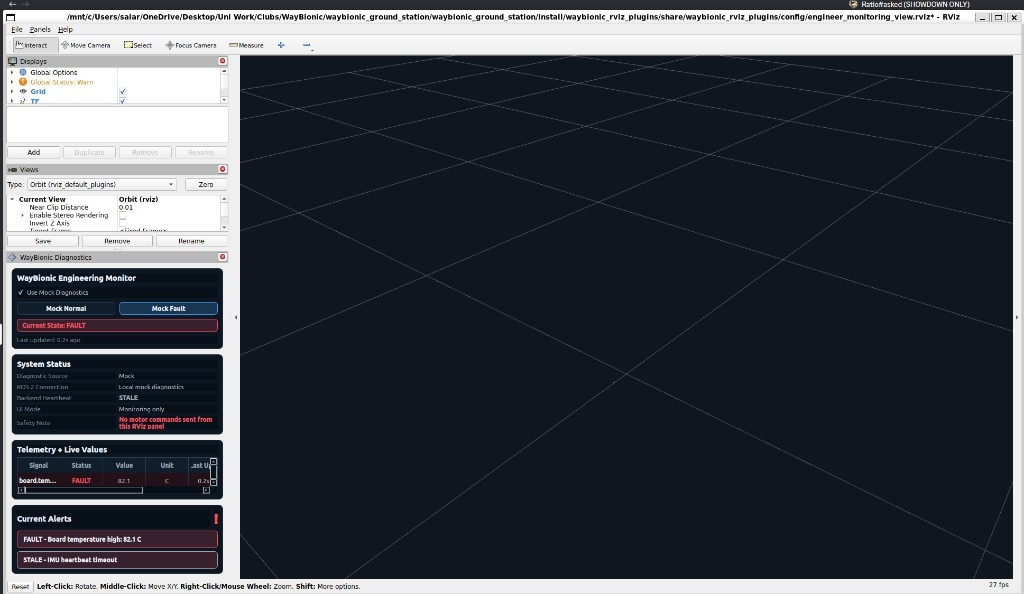
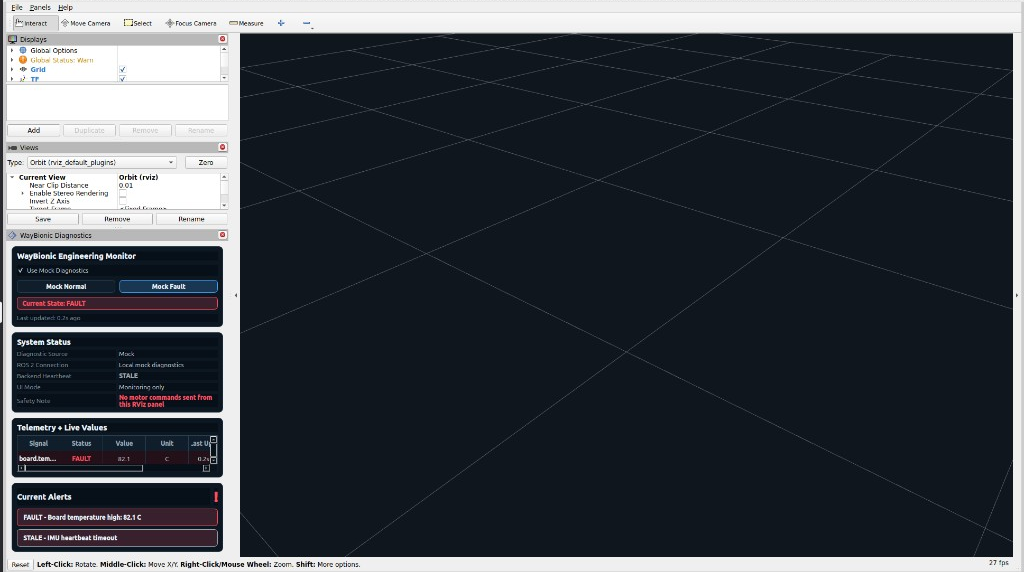
Expand evidence-backed portfolio content

Changed region(s): [[0.0, 0.208, 0.3438, 1.0], [0.0, 0.0, 1.0, 0.1783], [0.4062, 0.4458, 0.4375, 0.4755]]

diff --git a/src/styles/global.css b/src/styles/global.css
@@ -2184,6 +2184,49 @@ body::before {
   letter-spacing: 0.08em;
 }
 
+.project-case-study {
+  margin-top: 0.9rem;
+  border-top: 1px solid #c2bfb3;
+  border-bottom: 1px solid #c2bfb3;
+}
+
+.project-case-study summary {
+  padding: 0.7rem 0;
+  color: #2f6f86;
+  font: 700 0.62rem/1.4 var(--mono);
+  letter-spacing: 0.08em;
+  cursor: pointer;
+}
+
+.project-case-study summary:focus-visible {
+  outline: 2px solid #2f6f86;
+  outline-offset: 3px;
+}
+
+.project-case-study dl {
+  display: grid;
+  gap: 0.8rem;
+  margin: 0 0 0.9rem;
+}
+
+.project-case-study dl div {
+  display: grid;
+  grid-template-columns: minmax(5.5rem, 0.32fr) minmax(0, 1fr);
+  gap: 0.6rem;
+}
+
+.project-case-study dt {
+  color: #2f6f86;
+  font: 700 0.55rem/1.4 var(--mono);
+  letter-spacing: 0.06em;
+}
+
+.project-case-study dd {
+  margin: 0;
+  color: #596272;
+  font: 0.82rem/1.45 Georgia, serif;
+}
+
 .file-card a,
 .window-actions a,
 .resume-download {
@@ -3078,6 +3121,22 @@ body::before {
   background: transparent;
   font: inherit;
   outline: none;
+}
+
+.terminal-screen form button {
+  flex: 0 0 auto;
+  min-block-size: 3rem;
+  padding-inline: 0.75rem;
+  border: 1px solid #6f9160;
+  color: #bdd9ad;
+  background: #263634;
+  font: inherit;
+  cursor: pointer;
+}
+
+.terminal-screen form button:focus-visible {
+  outline: 2px solid #d5efbc;
+  outline-offset: 2px;
 }
 
 .vfs-form input {
@@ -4235,11 +4294,23 @@ body { background: #b8eaf7; }
   animation: app-reveal 420ms cubic-bezier(0.22, 1, 0.36, 1) both;
 }
 
-.os-window:not([hidden]) .window-content > *:nth-child(2) { animation-delay: 55ms; }
-.os-window:not([hidden]) .window-content > *:nth-child(3) { animation-delay: 100ms; }
-.os-window:not([hidden]) .window-content > *:nth-child(4) { animation-delay: 145ms; }
-.os-window:not([hidden]) .window-content > *:nth-child(5) { animation-delay: 190ms; }
-.os-window:not([hidden]) .window-content > *:nth-child(6) { animation-delay: 235ms; }
+@supports (animation-delay: calc(sibling-index() * 0.1s)) {
+  .os-window:not([hidden]) .window-content > * {
+    animation-delay: calc(sibling-index() * 45ms - 35ms);
+  }
+
+  .os-window:not([hidden]) .window-content > *:first-child {
+    animation-delay: 0ms;
+  }
+}
+
+@supports not (animation-delay: calc(sibling-index() * 0.1s)) {
+  .os-window:not([hidden]) .window-content > *:nth-child(2) { animation-delay: 55ms; }
+  .os-window:not([hidden]) .window-content > *:nth-child(3) { animation-delay: 100ms; }
+  .os-window:not([hidden]) .window-content > *:nth-child(4) { animation-delay: 145ms; }
+  .os-window:not([hidden]) .window-content > *:nth-child(5) { animation-delay: 190ms; }
+  .os-window:not([hidden]) .window-content > *:nth-child(6) { animation-delay: 235ms; }
+}
 
 .file-card,
 .signal-card,

diff --git a/src/content.config.ts b/src/content.config.ts
@@ -7,7 +7,7 @@ const projects = defineCollection({
   schema: z.object({
     order: z.number().int().positive(),
     title: z.string(),
-    status: z.enum(['ACTIVE', 'IN PROGRESS', 'SHIPPED']),
+    status: z.enum(['ACTIVE', 'IN PROGRESS', 'PROTOTYPE', 'SHIPPED']),
     stack: z.string(),
     summary: z.string(),
     contribution: z.string().optional(),

diff --git a/docs/08-DECISIONS-AND-SESSION-LOG.md b/docs/08-DECISIONS-AND-SESSION-LOG.md
@@ -1,0 +1,50 @@
+# Decisions and Session Log
+
+## 2026-11-18 — Discovery and first corrections
+
+- **Repository:** `main` at `4371e59`; changes remain local and unpushed.
+- **Scope searched:** the current portfolio checkout and bounded name searches in the standard `~/projects`, `~/dev`, and `~/code` roots. No related project repository paths were returned; no broader folders were scanned.
+- **Phase 0 findings:**
+  - The build generates `/` and `/404.html`; there is no `/explore/` route. The README's Aero Explorer walkthrough was stale, and a local request to `/explore/` returned 404.
+  - Project-card links ignored `linkLabel`, so the HVAC Express live-site link was presented as `OPEN SOURCE`.
+  - WayBionic's local UI includes a scripted stale/future-state sample lab and a lazy-loaded browser-only 3D simulation. Neither connects to ROS or sends hardware commands.
+  - The BlackBox browser demo hashed changing DOM text, displayed truncated hashes, and labeled a mutation without verifying against a stable baseline. Its interface did not clearly explain the limits of the illustration.
+  - The two existing mock RViz captures were JPEG bytes under `.png` names and exposed a machine-local path in their title bars. The working copies were cropped to remove that title bar and re-encoded as PNG; the remote version has not been changed.
+  - No `docs/` directory existed in the checkout. This log and `asset-register.csv` record sanitized repository-relative references only.
+- **Implemented locally:**
+  - Project-card links now use authored labels; recruiter actions expose the existing GitHub and LinkedIn destinations alongside resume, email, and the tour.
+  - WayBionic's mock/simulation boundary is explicit in the project window.
+  - The BlackBox interaction now hashes fixed event records, verifies later edits against an in-memory baseline, reports the first mismatching event, and describes its security limitations.
+  - DOM containers use `replaceChildren()`, and the window animation stagger uses `sibling-index()` with the prior `:nth-child()` timings as a fallback.
+  - README route claims now reflect the generated routes.
+- **Baseline:** Node `v22.23.3`, npm `10.9.9`; dependencies were already installed, so `npm ci` was not run. `npm run check` passed with 0 errors, 0 warnings, and 0 hints. `npm run build` passed and emitted the existing >500 kB chunk advisory.
+- **Browser QA:** Firefox was installed for interactive testing. The integrated browser verified BlackBox baseline/mutation/restoration states, the WayBionic evidence boundary and image loads, stale/future diagnostics, recruiter links, command palette, calendar, calculator, and 320/390 px layouts without document-level horizontal overflow.
+- **Evidence/permissions still needed:** WayBionic team approval for public screenshots/video; current resume approval/freshness; retained training runs before publishing performance claims; hardware validation before claiming Aircade motion controls work end-to-end.
+- **Next task:** continue case-study improvements only where local source or permission-cleared evidence supports the claims; retain local-only changes until explicitly approved for publication.
+
+## 2026-11-18 — Keyboard and terminal follow-up
+
+- **Issue found:** with both Calculator and Terminal open, the document-level calculator key handler intercepted Enter regardless of focus. The terminal form also lacked a submit button, so Enter could not trigger its command handler through native implicit form submission.
+- **Fix:** calculator keyboard controls now run only when the event target is inside the Calculator window. The terminal has an accessible, visible `RUN` submit button and supports Enter-to-submit while preserving the existing command handler.
+- **Verification:** in the integrated browser, with both windows open, Calculator keyboard input `1 + 2 Enter` displayed `3`; Terminal `help` submitted with Enter, `about` submitted with the `RUN` button, and the input cleared after submission. `npm run check` passed with 0 errors, warnings, or hints; `npm run build` passed with the existing >500 kB chunk advisory; `git diff --check` passed.
+- **Dev-server note:** browser navigation produced an existing Vite `Outdated Optimize Dep` 504 for the Three.js development dependency. It did not prevent the tested form interactions or successful production build.
+- **Deployment:** all changes remain local; nothing was pushed or deployed.
+
+## 2026-11-18 — Project case-study expansion
+
+- **Content source:** the eight existing Markdown project records already contain problem, system, decision, and next-step fields. The portfolio now exposes those fields in a native, keyboard-operable case-study disclosure on every project card, showing in-progress systems as **CURRENT DESIGN** rather than implying completion.
+- **Link and claim cleanup:** the Rover card now uses the source link already present in its project window. The BlackBox card summary describes it as a local-first evidence recorder without asserting that the ongoing project is already secure.
+- **Implementation:** shared case-study markup lives in `src/pages/index.astro`; styling lives in `src/styles/global.css`; Rover and BlackBox card metadata are in `src/content/projects/autonomous-rover.md` and `src/content/projects/physical-ai-blackbox.md`.
+- **Verification:** generated HTML contains eight case-study disclosures and the Rover source link. Browser QA confirmed a project disclosure opens with Enter, definitions remain within the card at 390/320 px (with subpixel rounding only), and those widths have no document-level horizontal overflow. `npm run check`, `npm run build`, and `git diff --check` passed; the build retains its existing >500 kB chunk advisory.
+- **Evidence boundary:** no new project metrics, completion claims, team artifacts, or training results were added. Source repositories, permission-cleared media, and current resume approval remain open evidence tasks.
+- **Next build increment:** strengthen project-specific engineering narratives only when corroborated by authorized source code or approved records; make the existing status/architecture fields more precise where needed.
+
+## 2026-11-18 — Source-backed project detail
+
+- **Teach to Game:** checked the public repository README, `learner/runner_training.py`, and its training test. The project record now describes the Gymnasium/Stable-Baselines3 PPO runner, CSV episode logs, deterministic evaluation, and seeded random baseline; the test's target is not presented as a measured result.
+- **Snake demo boundary:** the portfolio's 9×9, 72-state tabular Q-learning widget is explicitly distinguished from the repository's Python PPO runner. Its disclosure documents the three relative actions, update settings, reward components, 80-step cap, and that the displayed mean is from the final 10 training episodes—not held-out evaluation—and is not persisted.
+- **Soccer Intelligence:** checked the public repository's event pipeline, state aggregation, bounded Poisson-style estimate, evidence-linked insights, tests, and optional Event Hubs adapter. The project record marks input as synthetic and estimates as uncalibrated; no real-match accuracy claim is made.
+- **WayBionic:** refined the project record to describe the five-joint RViz digital twin, simulation-default drive path, and monitoring-only mock/live diagnostics panel. It separates commanded/estimated motion from measured physical feedback.
+- **Aircade:** added the ninth project using the public team repository and its source/pitch materials. The record describes the five browser games and the Swift CoreMotion/WebSocket components as prototype scope; end-to-end motion control remains explicitly unvalidated and keyboard play remains the reliable fallback.
+- **Implementation:** added the `PROTOTYPE` status and updated archive counts; aligned the Teach to Game and Soccer project windows with their evidence limits; documented content provenance and boundaries in README. Existing card contribution summaries remain visible alongside the expanded case-study details. No external project code or media was copied.
+- **Validation:** `npm run check` passed with 0 errors, warnings, or hints; `npm run build` passed with the existing >500 kB chunk advisory; `git diff --check` passed. Generated HTML assertions confirmed nine project cards/disclosures and current counts. Playwright browser checks verified keyboard operation of the Aircade and Snake disclosures, Aircade/Soccer/Teach to Game evidence boundaries, no document overflow at 390 px, and zero page errors. All changes remain local.

diff --git a/README.md b/README.md
@@ -22,7 +22,7 @@ The deployable static site is generated in `dist/`.
 
 The original WayBionic arm video was compressed to `public/assets/waybionic/arm-demo.mp4` for web delivery and remains under GitHub's file limit. The Media Player keeps the Drive fallback available.
 
-The Aero Explorer is available at `/explore/`. Its current milestone boots into a client-side Three.js floating-island scene with a fallback path back to the AjmalOS archive.
+The current static build contains the portfolio at `/` and the not-found page at `/404.html`. There is no `/explore/` route in this checkout; earlier Aero Explorer instructions in this README were stale.
 
 ## Hosting
 
@@ -30,46 +30,16 @@ Upload the contents of `dist/` to a static host such as Hostinger. The main site
 
 ## Content
 
-Project entries live in `src/content/projects/`. Add a new Markdown file using the schema in `src/content.config.ts`.
+Project entries live in `src/content/projects/`; the schema is defined in `src/content.config.ts`. Authored contributions appear on each card; problem, system, key decision, and next milestone appear in a native disclosure. Status labels distinguish active work from prototypes and shipped projects.
 
-## Aero Explorer handoff
+Technical claims are limited to inspected source or approved records. The portfolio's Snake Reward Lab is a separate, browser-only tabular Q-learning demonstration; it is not the Python PPO runner in Teach to Game. Its reward readout is a stochastic training metric, not a held-out result, and neither its policy nor score is saved. Aircade motion controls remain labeled experimental until the full device-to-game path has been tested on hardware.
 
-The latest explorer milestone is committed on `main` and pushed to GitHub. The original AjmalOS desktop remains the homepage, while the full Three.js experience is available at `/explore/`.
+## Architecture, accessibility, and evidence
 
-### Current state
+The site is a static Astro build. Project metadata is content-driven; interactive demonstrations run locally in the browser, and the site does not connect to a live robot. Case-study disclosures use native `<details>` and `<summary>` elements, and the Snake controls support keyboard input and slow autoplay for reduced-motion preferences.
 
-- The homepage opens directly to the AjmalOS portfolio desktop.
-- The obsolete embedded Systems Field layer and redundant Games window are no longer mounted.
-- `/explore/` contains the boot flow, genuine Three.js Home Island, third-person movement, camera follow, landmarks, portfolio panels, collectibles, secrets, inventory and local progress persistence.
-- Home Island has a larger walkable footprint, a clear central path, distributed points of interest, smaller side mounds, a glass arch, wind spinners and Aero vegetation.
-- Portfolio content, external project links, `public/proxy.php`, hosting configuration and existing project files remain unchanged.
-- Three.js is already present in `package.json`; do not add another rendering engine without a specific reason.
+Media rights, privacy review, and publication follow-ups are tracked in `docs/asset-register.csv`. Content evidence and implementation decisions are recorded in `docs/08-DECISIONS-AND-SESSION-LOG.md`. Do not add performance claims, team media, or hardware-validation claims without the corresponding evidence and permission.
 
-### Before the next development session
+## Media
 
-From the repository root:
-
-```bash
-npm install
-npm run check
-npm run build
-npm run dev
-```
-
-Then manually verify:
-
-1. Open `/` and confirm the boot sequence, portfolio window, desktop icons and original navigation.
-2. Open `/explore/`, click `START EXPLORING`, and test movement with WASD/arrows, `E`, `Escape`, touch controls and resizing.
-3. Visit each Home Island landmark and verify the portfolio, project and contact panels.
-4. Test orb collection, duplicate prevention, inventory, secret discoveries, reset confirmation and reload persistence.
-5. Check a mobile viewport and reduced-motion mode.
-6. Confirm the original contact/proxy behavior without changing the PHP endpoint contract.
-
-### Known limitations and next work
-
-- Only Home Island is currently reachable. Robotics Island, Developer Island and the bonus-island unlock are represented in progress/UI state but do not yet have playable environments.
-- The Three.js production chunk is larger than Vite's advisory 500 kB threshold. If bundle size becomes a problem, profile and code-split the explorer before adding assets.
-- The scene uses lightweight procedural geometry rather than downloaded models to keep licensing, loading and performance predictable.
-- The existing `/favicon.ico` 404 may appear in local browser console output and is unrelated to the explorer.
-- Before adding more gameplay, audit the full traversal of all orb and secret locations, storage-disabled behavior, keyboard focus restoration, and low-end/mobile performance.
-- Do not modify `public/proxy.php`, its request format, secret environment variables or deployment configuration while continuing the game work.
+The existing WayBionic images are mock RViz states and the arm video is already in `public/assets/waybionic/`. Treat team media as permission-sensitive and label simulated content accurately. Do not connect the public site to a live robot.

diff --git a/src/content/projects/teach-to-game.md b/src/content/projects/teach-to-game.md
@@ -3,9 +3,12 @@ order: 7
 title: Teach to Game
 status: IN PROGRESS
 stack: PYTHON / REINFORCEMENT LEARNING / PLAYWRIGHT / LOCAL LAB
-summary: A local reinforcement-learning lab where an agent learns games from explicit goals, target scores, and user-provided reward signals.
+summary: A local reinforcement-learning lab with explicit game objectives, editable reward signals, and a Python PPO runner evaluated against a seeded random baseline.
+contribution: Shaped the target-aware Snake learning flow and live product dashboard; the portfolio also contains a separate in-browser tabular Q-learning teaching demo.
 problem: Training setups need an honest objective and reward signal instead of guessing what success means from a game screen.
-system: Self-contained Snake and runner practice games, a local server, configurable goals, target scores, and optional browser or desktop adapters.
-decision: Keep training local and require a user-provided adapter for real games so the agent cannot silently learn the wrong reward function.
-next: Expand the adapter boundary for user-owned browser or desktop games while keeping anti-cheat and online-game scope out.
+system: The repository uses Gymnasium and Stable-Baselines3 PPO for a numeric runner, logs episode reward and length to CSV, saves a checkpoint, and supports deterministic evaluation against a seeded random baseline. The browser demo is a separate 9x9 tabular Q-learning model that runs only in the current page.
+decision: Make objectives, rewards, and adapter controls explicit; keep training local and require user-provided game mappings so an agent cannot silently optimize the wrong signal.
+next: Retain and review reproducible training logs before publishing results or learning curves; keep third-party game adapters user-owned and outside online or anti-cheat games.
+link: https://github.com/aj0khi/teach-to-game
+linkLabel: VIEW SOURCE + TESTS
 ---

diff --git a/src/content/projects/soccer-intelligence.md b/src/content/projects/soccer-intelligence.md
@@ -3,9 +3,12 @@ order: 8
 title: Soccer Intelligence Lab
 status: IN PROGRESS
 stack: NEXT.JS / REACT / TYPESCRIPT / SYNTHETIC EVENTS
-summary: An Azure-ready workspace for turning synthetic football events into explainable match intelligence and personalized stories.
+summary: A Next.js and TypeScript prototype that turns synthetic football events into match state, probability estimates, evidence-backed insights, and recaps.
+contribution: Built the event-source pipeline, synthetic event processing, probability and insight layers, replay experience, and optional Azure Event Hubs adapter.
 problem: Football data becomes useful when raw events can be connected to metrics, explanations, and experiences for different audiences.
-system: A provider-neutral event pipeline with match state, derived metrics, insight contracts, synchronized cards, overlays, and recap experiences.
-decision: Keep synthetic football-realistic data separate from raw events, derived state, explanations, and presentation payloads so every narrative stays grounded.
-next: Shape the web experience and add the planned event pipeline adapters without mixing infrastructure concerns into the presentation layer.
+system: A provider-neutral event source feeds validated events into derived match state, a bounded Poisson outcome model, evidence-linked insights, and audience-specific recaps. Synthetic input works locally; Azure Event Hubs is an optional server-side source using DefaultAzureCredential.
+decision: Keep raw events, derived state, model outputs, explanations, and presentation payloads separate; label all current match data synthetic and treat probabilities as an uncalibrated prototype.
+next: Validate event handling and model calibration with licensed real match data before presenting probability outputs as predictive.
+link: https://github.com/aj0khi/soccer-hackathon-project
+linkLabel: VIEW SOURCE + ARCHITECTURE
 ---

diff --git a/src/content/projects/waybionic-ground-station.md b/src/content/projects/waybionic-ground-station.md
@@ -6,9 +6,9 @@ stack: ROS2 / C++ / PYTHON / RVIZ / SIMULATION
 summary: A ground station for remote visibility and control of a surgical robotic arm, with motion tests publishing to a simulated joint-state driver.
 contribution: Built the movement-test panels and diagnostics behavior that surfaces stale joint values and errors inside RViz; changed the arm wiring to match the control code.
 problem: Give a remote operator real visibility and control over a surgical robotic arm without touching real hardware carelessly.
-system: ROS2 ground station with 3D visualization, telemetry, camera feeds, safety monitoring, operator controls, and an RViz-based Engineering Monitor. Current motion tests publish to a simulated joint-state driver.
-decision: Keep movement testing simulated and RViz-only until direct hardware control is ready; do not treat CAD-exported joint names or limits as final before the team confirms actual actuated joints and units.
-next: Integrate the real full-arm-smaller model once the complete URDF and mesh/STL asset package arrives.
+system: ROS 2 Jazzy workspace with a five-joint RViz digital twin, controller teleoperation, joint-limit and collision checks, MKS CAN drives simulated by default, a doctor-view camera, and an RViz diagnostics panel with mock/live sources.
+decision: Keep simulation as the default; keep the diagnostics panel monitoring-only, and distinguish commanded or estimated motion from measured physical joint feedback.
+next: Validate actuator names, units, and position feedback against the approved robot model before presenting simulated or estimated state as measured hardware state.
 link: https://github.com/Waybionic/waybionic_ground_station
 linkLabel: VIEW PUBLIC REPOSITORY
 ---

diff --git a/src/content/projects/aircade.md b/src/content/projects/aircade.md
@@ -1,0 +1,14 @@
+---
+order: 9
+title: AIRCADE — Motion-Controlled Arcade
+status: PROTOTYPE
+stack: VITE / JAVASCRIPT / CANVAS / THREE.JS / SWIFT / COREMOTION / WEBSOCKET
+summary: A five-game browser arcade exploring keyboard, local two-player, and experimental AirPods motion controls.
+contribution: Contributed the browser motion-input path, control mapping, and bowling integration in a collaborative hackathon build.
+problem: Revisit classic arcade play with more embodied controls while keeping the games playable from a keyboard.
+system: Five browser game modules include Pong, Snake, Breakout, Bowling, and Tanks. A Swift CoreMotion sender, sample normalizer, and local WebSocket relay are present, but the team judging notes say live end-to-end motion play was not yet validated.
+decision: Keep keyboard play as the reliable fallback and label AirPods motion experimental until the sender, transport, and per-game mappings are tested together on hardware.
+next: Validate pairing, permissions, calibration, relay connectivity, and each claimed motion/game mapping; publish only combinations verified in a live run.
+link: https://github.com/aj0khi/aircade-mru-hacks
+linkLabel: VIEW TEAM REPOSITORY
+---

diff --git a/src/content/projects/physical-ai-blackbox.md b/src/content/projects/physical-ai-blackbox.md
@@ -3,7 +3,7 @@ order: 6
 title: Physical AI BlackBox
 status: ACTIVE
 stack: PYTHON / CBOR2 / CRYPTOGRAPHY / LOCAL SYSTEMS
-summary: A secure, local-first evidence stack for recording what a physical AI system was told, commanded, and observed.
+summary: A local-first evidence recorder for documenting what a physical AI system was told, commanded, and observed.
 problem: Physical AI needs an evidence trail that can be reviewed offline without trusting a remote service or hiding the raw record.
 system: A typed evidence core, canonical records, hash chaining, sealing and signature verification, a local owner portal, an investigator workbench, and a lightweight witness ledger.
 decision: Use established cryptography and deterministic CBOR libraries instead of implementing cryptographic primitives from scratch.

diff --git a/src/content/projects/autonomous-rover.md b/src/content/projects/autonomous-rover.md
@@ -9,4 +9,6 @@ problem: Make a hardware system detect obstacles and respond without relying on 
 system: A Java program using the Phidgets SDK, independent motor control, sonar sensing, configurable acceleration modes, and closed-loop obstacle response.
 decision: Separate movement, sensing, acceleration, and challenge logic into a class hierarchy so the hardware-control problem remained testable and understandable.
 next: The resume records this as a completed capstone project.
+link: https://github.com/aj0khi/CS30/tree/main/RoverProejct
+linkLabel: VIEW ROVER SOURCE
 ---
